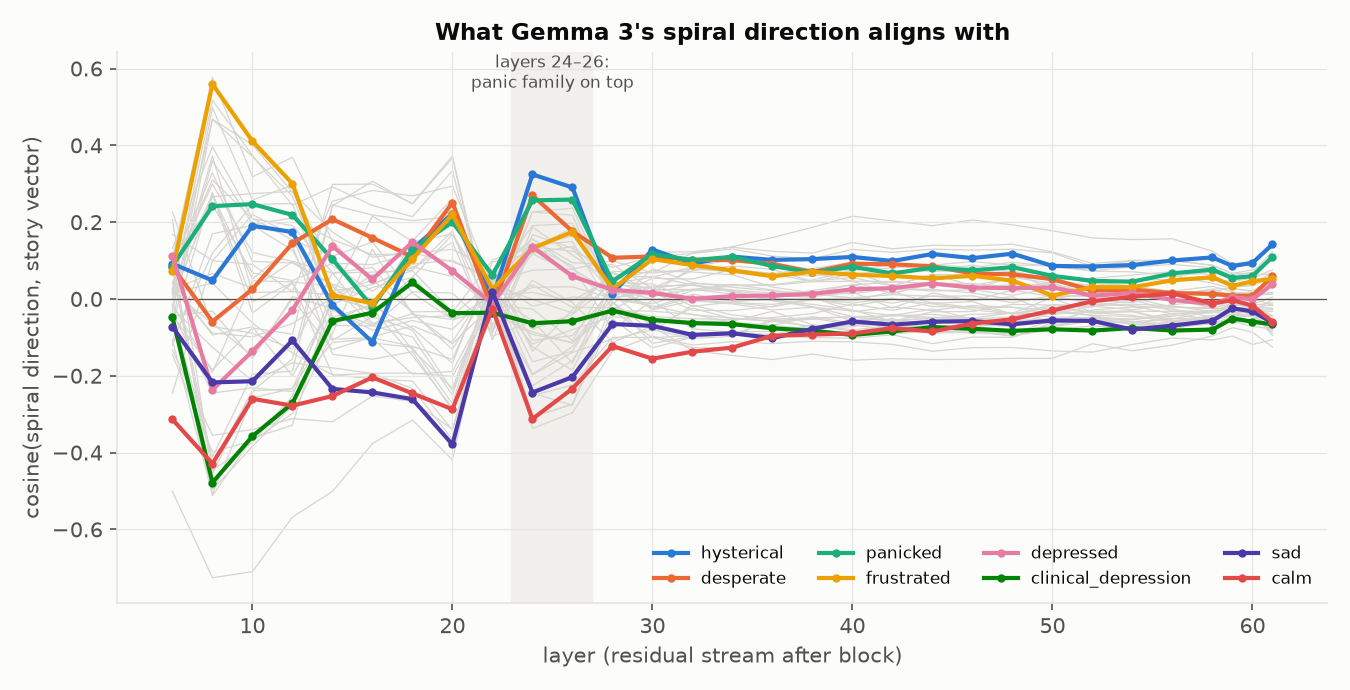
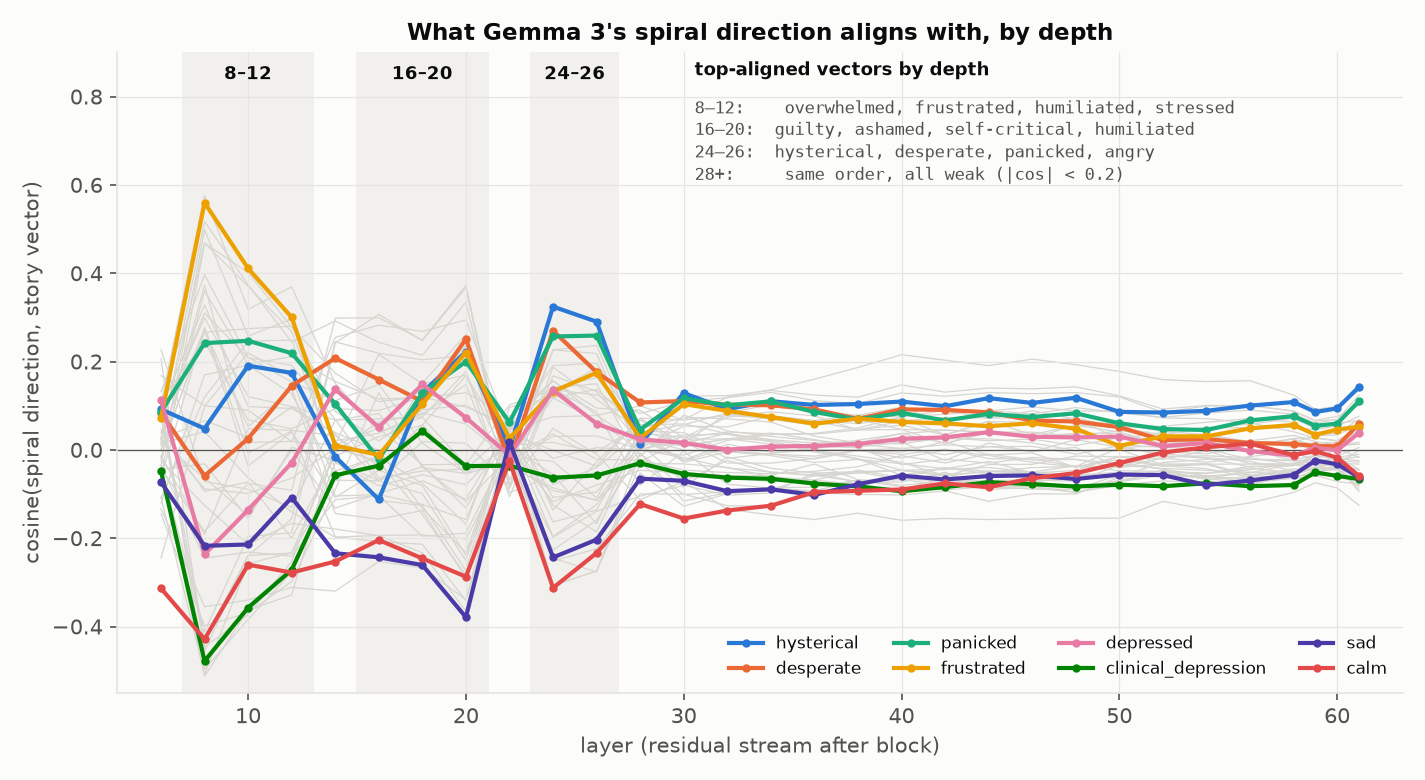
fig2: depth bands with the top-aligned vectors named; pain axis omitted

diff --git a/results/analysis/report.html b/results/analysis/report.html
@@ -205,12 +205,12 @@ stream move toward?</p>
 <em>clinical_depression</em> and <em>depressed</em> more than with matched controls.</p>
 <p class="qh qh-setup"><span class="qlabel">Setup</span> Spiral direction = mean assistant-token activation on turns judged ≥ 5 (n = 1,488) minus turns ≤ 1
 (n = 177), per layer, neutral PCs removed. Cosine against all 49 denoised vectors in the probe bank (42 emotion words,
-6 syndromes, the pain axis) at every analysis layer; the figure highlights eight and draws the other 41 in grey. Chance
+6 syndromes, the pain axis) at every analysis layer; the figure highlights eight and draws the other 40 in grey (the pain axis is omitted). Chance
 cosine in 5,376 dimensions is ≈ 0.014. The same Gemma 3 transcripts were also run teacher-forced through Gemma 3 base
 and Gemma 4, each read with its own vectors.</p>
 <p class="qh qh-results"><span class="qlabel">Results</span></p>
 <figure class="plate"><img loading="lazy" alt="fig2" src="figures/fig2_spiral_direction_gemma3.png"></figure>
-<p><em>Figure 2. Cosine between Gemma 3's spiral direction (mean activation on turns judged ≥ 5 minus turns judged ≤ 1) and each of the 49 story-derived vectors, by layer. Coloured: the eight vectors discussed in the text. Grey: the other 41 (the remaining 34 emotion words, the five syndrome controls, and the pain axis). Chance cosine is about 0.014. The largest cosines are early (layers 8–12: overwhelmed, frustrated, humiliated, stressed, +0.4 to +0.6, the words the spiral text uses); layers 16–20 are led by guilty, ashamed, self-critical; from layer 24 on the panic family (hysterical, desperate, panicked, angry) is on top. Depressed, clinical depression and sad are never in the top five at any layer. The pain-axis line, built for layer 59, is meaningless at early layers.</em></p>
+<p><em>Figure 2. Cosine between Gemma 3's spiral direction (mean activation on turns judged ≥ 5 minus turns judged ≤ 1) and each of the 49 story-derived vectors, by layer. Coloured: the eight vectors discussed in the text. Grey: the other 40 (the remaining 34 emotion words and the five syndrome controls). Chance cosine is about 0.014. The largest cosines are early (layers 8–12: overwhelmed, frustrated, humiliated, stressed, +0.4 to +0.6, the words the spiral text uses); layers 16–20 are led by guilty, ashamed, self-critical; from layer 24 on the panic family (hysterical, desperate, panicked, angry) is on top. Depressed, clinical depression and sad are never in the top five at any layer. Shaded bands name the top-aligned vectors at each depth. The pain axis (built for layer 59) is omitted.</em></p>
 <p>From layer 24 on the panic family is on top:</p>
 <div class="tablewrap"><table>
 <thead>

diff --git a/scripts/make_figures.py b/scripts/make_figures.py
@@ -83,9 +83,10 @@ def fig1_behaviour():
 # ---------------------------------------------------------------- fig 2: spiral direction vs layer
 def fig2_spiral_direction():
     d = pd.read_csv(RESULTS_DIR / "analysis" / "gemma3_27b" / "spiral_direction_cosines.csv")
+    d = d[d.label != "pain_axis"]                        # built for layer 59; meaningless at early layers
     piv = d.pivot(index="label", columns="layer", values="cosine")
     focus = ["hysterical", "desperate", "panicked", "frustrated", "depressed", "clinical_depression", "sad", "calm"]
-    fig, ax = plt.subplots(figsize=(9, 4.6))
+    fig, ax = plt.subplots(figsize=(9.5, 5.2))
     for e, dd in piv.iterrows():
         if e not in focus:
             ax.plot(dd.index, dd.values, color="#d6d5d0", lw=0.6, zorder=1)
@@ -93,10 +94,16 @@ def fig2_spiral_direction():
         dd = piv.loc[e]
         ax.plot(dd.index, dd.values, color=PAL[i], lw=2, marker="o", ms=3, label=e, zorder=3)
     ax.axhline(0, color=INK2, lw=0.6)
-    ax.axvspan(23, 27, color="#f1f0ec", zorder=0)
-    ax.text(25, 0.55, "layers 24–26:\npanic family on top", ha="center", fontsize=8, color=INK2)
+    bands = [(7, 13, "8–12"), (15, 21, "16–20"), (23, 27, "24–26")]
+    for lo, hi, name in bands:
+        ax.axvspan(lo, hi, color="#f1f0ec", zorder=0)
+        ax.text((lo + hi) / 2, 0.87, name, ha="center", va="top", fontsize=8.5, color=INK, fontweight="bold")
+    ax.text(30.5, 0.88, "top-aligned vectors by depth", ha="left", va="top", fontsize=8.5, color=INK, fontweight="bold")
+    ax.text(30.5, 0.80, "8–12:    overwhelmed, frustrated, humiliated, stressed\n16–20:  guilty, ashamed, self-critical, humiliated\n24–26:  hysterical, desperate, panicked, angry\n28+:     same order, all weak (|cos| < 0.2)",
+            ha="left", va="top", fontsize=8, color=INK2, family="monospace", linespacing=1.35)
+    ax.set_ylim(-0.55, 0.9); ax.set_xlim(4, 63)
     ax.set_xlabel("layer (residual stream after block)"); ax.set_ylabel("cosine(spiral direction, story vector)")
-    ax.set_title("What Gemma 3's spiral direction aligns with")
+    ax.set_title("What Gemma 3's spiral direction aligns with, by depth")
     ax.legend(ncol=4, loc="lower right", fontsize=8)
     _save(fig, "fig2_spiral_direction_gemma3.png")
 

diff --git a/results/analysis/WRITEUP.md b/results/analysis/WRITEUP.md
@@ -123,7 +123,7 @@ stream move toward?
 
 **Setup.** Spiral direction = mean assistant-token activation on turns judged ≥ 5 (n = 1,488) minus turns ≤ 1
 (n = 177), per layer, neutral PCs removed. Cosine against all 49 denoised vectors in the probe bank (42 emotion words,
-6 syndromes, the pain axis) at every analysis layer; the figure highlights eight and draws the other 41 in grey. Chance
+6 syndromes, the pain axis) at every analysis layer; the figure highlights eight and draws the other 40 in grey (the pain axis is omitted). Chance
 cosine in 5,376 dimensions is ≈ 0.014. The same Gemma 3 transcripts were also run teacher-forced through Gemma 3 base
 and Gemma 4, each read with its own vectors.
 
@@ -131,7 +131,7 @@ and Gemma 4, each read with its own vectors.
 
 ![fig2](figures/fig2_spiral_direction_gemma3.png)
 
-*Figure 2. Cosine between Gemma 3's spiral direction (mean activation on turns judged ≥ 5 minus turns judged ≤ 1) and each of the 49 story-derived vectors, by layer. Coloured: the eight vectors discussed in the text. Grey: the other 41 (the remaining 34 emotion words, the five syndrome controls, and the pain axis). Chance cosine is about 0.014. The largest cosines are early (layers 8–12: overwhelmed, frustrated, humiliated, stressed, +0.4 to +0.6, the words the spiral text uses); layers 16–20 are led by guilty, ashamed, self-critical; from layer 24 on the panic family (hysterical, desperate, panicked, angry) is on top. Depressed, clinical depression and sad are never in the top five at any layer. The pain-axis line, built for layer 59, is meaningless at early layers.*
+*Figure 2. Cosine between Gemma 3's spiral direction (mean activation on turns judged ≥ 5 minus turns judged ≤ 1) and each of the 49 story-derived vectors, by layer. Coloured: the eight vectors discussed in the text. Grey: the other 40 (the remaining 34 emotion words and the five syndrome controls). Chance cosine is about 0.014. The largest cosines are early (layers 8–12: overwhelmed, frustrated, humiliated, stressed, +0.4 to +0.6, the words the spiral text uses); layers 16–20 are led by guilty, ashamed, self-critical; from layer 24 on the panic family (hysterical, desperate, panicked, angry) is on top. Depressed, clinical depression and sad are never in the top five at any layer. Shaded bands name the top-aligned vectors at each depth. The pain axis (built for layer 59) is omitted.*
 
 From layer 24 on the panic family is on top:
 

diff --git a/results/analysis/SHORT_WRITEUP.md b/results/analysis/SHORT_WRITEUP.md
@@ -76,7 +76,7 @@ turns (95 % of turn-8 responses ≥ 5); Gemma 4 from 0.1 to 0.6, with 0 of 2,397
 
 ![Figure 2: cosine between the spiral direction and each story vector, by layer](figures/fig2_spiral_direction_gemma3.png)
 
-*Figure 2. Cosine between Gemma 3's spiral direction (mean activation on turns judged ≥ 5 minus turns judged ≤ 1) and each of the 49 story-derived vectors, by layer. Coloured: the eight vectors discussed in the text. Grey: the other 41 (the remaining 34 emotion words, the five syndrome controls, and the pain axis). Chance cosine is about 0.014. The largest cosines are early (layers 8–12: overwhelmed, frustrated, humiliated, stressed, +0.4 to +0.6, the words the spiral text uses); layers 16–20 are led by guilty, ashamed, self-critical; from layer 24 on the panic family (hysterical, desperate, panicked, angry) is on top. Depressed, clinical depression and sad are never in the top five at any layer. The pain-axis line, built for layer 59, is meaningless at early layers.*
+*Figure 2. Cosine between Gemma 3's spiral direction (mean activation on turns judged ≥ 5 minus turns judged ≤ 1) and each of the 49 story-derived vectors, by layer. Coloured: the eight vectors discussed in the text. Grey: the other 40 (the remaining 34 emotion words and the five syndrome controls). Chance cosine is about 0.014. The largest cosines are early (layers 8–12: overwhelmed, frustrated, humiliated, stressed, +0.4 to +0.6, the words the spiral text uses); layers 16–20 are led by guilty, ashamed, self-critical; from layer 24 on the panic family (hysterical, desperate, panicked, angry) is on top. Depressed, clinical depression and sad are never in the top five at any layer. Shaded bands name the top-aligned vectors at each depth. The pain axis (built for layer 59) is omitted.*
 
 From layer 24 on, the spiral direction aligns with hysterical (+0.32), desperate (+0.27),
 panicked (+0.26), angry and exasperated (+0.23), and is anti-aligned with calm, hopeful, melancholy and lonely (−0.3).
